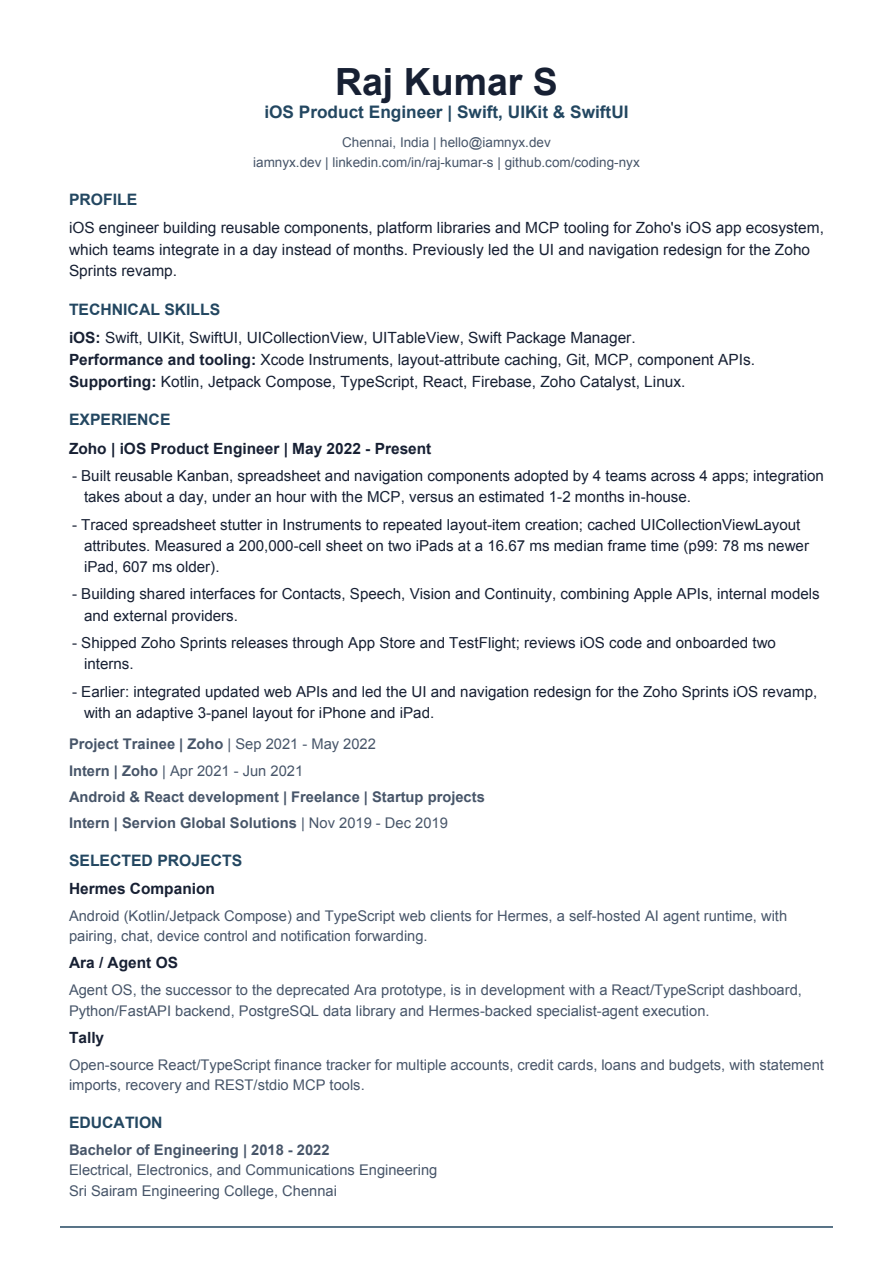
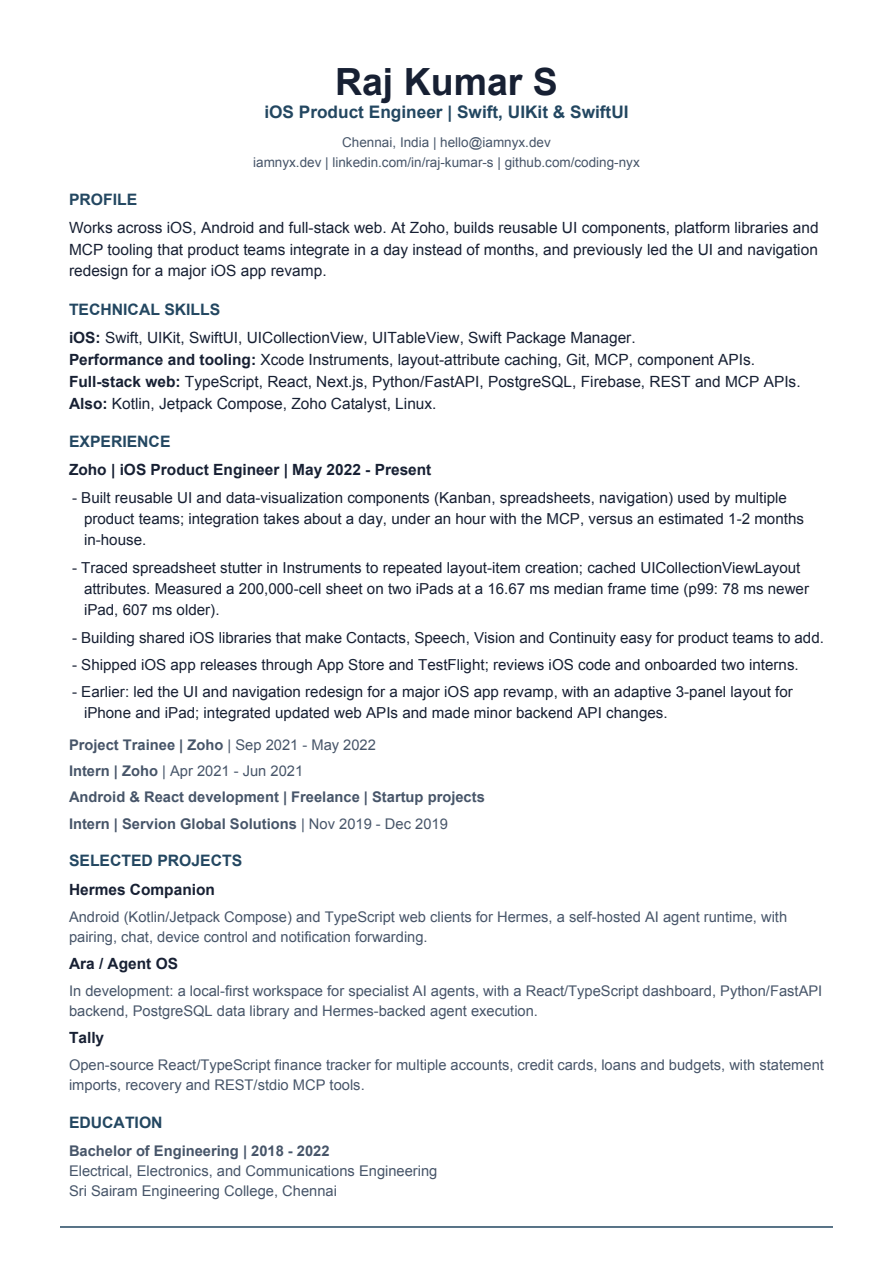
Update portfolio and résumé positioning

diff --git a/src/data/portfolio.js b/src/data/portfolio.js
@@ -143,7 +143,7 @@ export const experienceData = [
     dates: 'May 2022 - Present',
     type: 'Full-time',
     description:
-      'Builds reusable iOS components and platform libraries for Zoho’s app ecosystem, used by other product teams, reviews code for the iOS teams and onboarded two interns. Previously on Zoho Sprints and Zoho Projects, including leading UI and navigation for the Zoho Sprints revamp and shipping its App Store and TestFlight releases. Covers requirements analysis, feasibility, native UI performance and product-team integration.',
+      'Builds the reusable iOS components and platform libraries that Zoho’s product teams build on, from requirements analysis and feasibility through to helping teams integrate them. Before that, built features for Zoho’s iOS apps and led UI and navigation for a major app revamp.',
     uiWork: {
       title: 'UI layout and performance',
       summary: 'Worked on application navigation, component layouts and scrolling performance.',
@@ -153,7 +153,7 @@ export const experienceData = [
           title: 'Adaptive product navigation',
           contextLabel: 'Scope',
           context:
-            'App-wide UI redesign and navigation improvements as part of the Zoho Sprints iOS revamp.',
+            'App-wide UI redesign and navigation improvements as part of a major iOS app revamp.',
           analysisLabel: 'Adaptive layout',
           analysis:
             'Implemented a reusable three-panel split view for phone, landscape and iPad layouts. Switched between rail navigation and a tab bar based on available size and traitCollection.',
@@ -192,30 +192,30 @@ export const experienceData = [
       {
         id: 'reusable-product-ui',
         name: 'Reusable Product UI',
-        desc: 'Developed Kanban, spreadsheet and navigation components used by four teams across four apps. A component a team would otherwise spend an estimated one to two months designing, building and integrating can be integrated in about a day. Prototyped UIKit, SwiftUI and hybrid approaches using collection views, table views, List, lazy stacks and custom compositional layouts.',
+        desc: 'Developed reusable UI and data-visualization components, including Kanban boards, spreadsheets and navigation, used by multiple product teams. Teams integrate one in about a day, instead of an estimated one to two months building it themselves. Prototyped UIKit, SwiftUI and hybrid approaches using collection views, table views, List, lazy stacks and custom compositional layouts.',
         resumeSummary:
-          'Built reusable Kanban, spreadsheet and navigation components adopted by 4 teams across 4 apps; integration takes about a day, under an hour with the MCP, versus an estimated 1-2 months in-house.',
+          'Built reusable UI and data-visualization components (Kanban, spreadsheets, navigation) used by multiple product teams; integration takes about a day, under an hour with the MCP, versus an estimated 1-2 months in-house.',
       },
       {
         id: 'platform-library-integration',
         name: 'iOS Platform Libraries and Feature Integration',
-        desc: 'Developing reusable iOS libraries that give product teams consistent interfaces for Contacts, Speech, Vision and Continuity features. The work includes wrapping Apple frameworks and designing feature pipelines that combine native capabilities, Zoho R&D libraries, custom models and external libraries or APIs, with bring-your-own-key support where applicable.',
+        desc: 'Building iOS libraries that make features like Contacts, Speech, Vision and Continuity easy for product teams to add, through one consistent interface instead of each team integrating the Apple frameworks itself. The feature pipelines behind them combine native capabilities, Zoho R&D libraries, custom models and external libraries or APIs, with bring-your-own-key support where applicable.',
         resumeSummary:
-          'Building shared interfaces for Contacts, Speech, Vision and Continuity, combining Apple APIs, internal models and external providers.',
+          'Building shared iOS libraries that make Contacts, Speech, Vision and Continuity easy for product teams to add.',
       },
       {
         id: 'release-and-quality',
         name: 'Releases, code review and onboarding',
-        desc: 'Shipped Zoho Sprints releases through the App Store and TestFlight. Reviews code for the iOS teams and onboarded two interns.',
+        desc: 'Shipped iOS app releases through the App Store and TestFlight. Reviews code for the iOS teams and onboarded two interns.',
         resumeSummary:
-          'Shipped Zoho Sprints releases through App Store and TestFlight; reviews iOS code and onboarded two interns.',
+          'Shipped iOS app releases through App Store and TestFlight; reviews iOS code and onboarded two interns.',
       },
       {
         id: 'production-app-revamp',
-        name: 'Zoho Sprints Revamp',
-        desc: 'Integrated updated web APIs and translated their responses for the mobile app in the Zoho Sprints iOS revamp. Contributed to revamp planning and led UI redesign and navigation improvements. Also contributed to feature additions, bug fixes and minor releases across Zoho Sprints and Zoho Projects.',
+        name: 'iOS App Revamp',
+        desc: 'Contributed to revamp planning and led UI redesign and navigation improvements. Integrated updated web APIs and translated their responses for the mobile app. Also worked on feature additions, bug fixes, minor releases and minor backend API changes.',
         resumeSummary:
-          'Earlier: integrated updated web APIs and led the UI and navigation redesign for the Zoho Sprints iOS revamp, with an adaptive 3-panel layout for iPhone and iPad.',
+          'Earlier: led the UI and navigation redesign for a major iOS app revamp, with an adaptive 3-panel layout for iPhone and iPad; integrated updated web APIs and made minor backend API changes.',
       },
       {
         id: 'adaptive-navigation-layout',
@@ -329,24 +329,24 @@ export const profileData = {
     preferredName: 'Rajkumar',
     primaryStack: ['Swift', 'UIKit', 'SwiftUI', 'SPM'],
     paragraphs: [
-      'I’m an iOS product engineer in Chennai. At Zoho, I build reusable components and platform libraries for the iOS app ecosystem: Kanban, spreadsheet and navigation components that four teams use across four apps, and shared libraries for Contacts, Speech, Vision and Continuity.',
-      'A component that would take a team an estimated one to two months to build can be integrated in about a day, and in under an hour with the integration MCP I built. Before moving to components, I worked on Zoho Sprints and Zoho Projects, and led the UI and navigation redesign for the Zoho Sprints revamp, including an adaptive three-panel layout for phone, landscape and iPad.',
-      'Outside work, I build AI agent and automation tools: Android clients, a finance tracker with MCP tools, and a Linux distribution for an RK3588 board. I’m also into retro gaming and obstacle course races.',
+      'I’m an iOS engineer in Chennai. I care about the parts of an app people feel but rarely notice: a layout that adapts cleanly from iPhone to iPad, a spreadsheet that still scrolls smoothly at two hundred columns, a component another team can pick up in a day instead of rebuilding it.',
+      'These days most of my work is shared components and platform libraries that other teams build on. It’s a different kind of problem from shipping one app: you design for the developers using your code as much as for the person tapping the screen.',
+      'I love building for iOS, and I love full-stack web work just as much: designing the API, the database and the interface that sits on top of them. Most of my side projects start there, like a finance tracker for my own accounts and budgets. Some end up somewhere stranger, like an Android engine for AI agents or a Linux distribution for a board nobody supported. Away from the keyboard, I’m probably playing something retro or covered in mud at an obstacle course race.',
     ],
     personalLinkLabel: 'Race photos and other interests',
   },
   heroSummary:
-    'I build reusable iOS components and platform libraries for Zoho’s app ecosystem, which teams integrate in a day instead of months.',
+    'I build iOS and Android apps, full-stack web apps and the reusable components other developers build on.',
   deliverySummary:
-    'Early in the iOS role at Zoho, contributed to feature additions, bug fixes and minor releases for Zoho Sprints and Zoho Projects. For the Zoho Sprints revamp, integrated updated web APIs and translated their responses for the mobile app, contributed to revamp planning, and led UI redesign and navigation improvements.',
+    'Early in the iOS role at Zoho, contributed to feature additions, bug fixes and minor releases for Zoho’s iOS apps. For a major app revamp, integrated updated web APIs and translated their responses for the mobile app, contributed to revamp planning, and led UI redesign and navigation improvements.',
   headline:
     'iOS Product Engineer at Zoho | Reusable Components & Platform Libraries | Swift, UIKit & SwiftUI',
   location: 'Chennai, India',
   profileImage: '/profile.jpg',
   summary:
-    'iOS engineer at Zoho since May 2022, now building reusable Kanban, spreadsheet and navigation components, platform libraries and component integration tooling for Zoho’s iOS app ecosystem. Earlier, on Zoho Sprints and Zoho Projects, integrated updated web APIs and translated their responses for the mobile app in the Zoho Sprints revamp, contributed to planning, and led UI redesign and navigation improvements.',
+    'iOS engineer at Zoho since May 2022, now building reusable UI and data-visualization components, platform libraries and component integration tooling for Zoho’s iOS app ecosystem. Earlier, integrated updated web APIs and translated their responses for the mobile app in a major app revamp, made minor backend API changes, contributed to planning, and led UI redesign and navigation improvements.',
   resumeSummary:
-    'iOS engineer building reusable components, platform libraries and MCP tooling for Zoho’s iOS app ecosystem, which teams integrate in a day instead of months. Previously led the UI and navigation redesign for the Zoho Sprints revamp.',
+    'Works across iOS, Android and full-stack web. At Zoho, builds reusable UI components, platform libraries and MCP tooling that product teams integrate in a day instead of months, and previously led the UI and navigation redesign for a major iOS app revamp.',
   socialLinks: {
     linkedin: 'https://www.linkedin.com/in/raj-kumar-s',
     email: 'hello@iamnyx.dev',
@@ -517,7 +517,7 @@ export const projects = [
     description:
       'Ara is deprecated and is being rebuilt as Agent OS. The successor is in development, bringing specialist agents, persistent personal data and coordinated workflows into a local-first workspace built on a pinned Hermes runtime.',
     resumeSummary:
-      'Agent OS, the successor to the deprecated Ara prototype, is in development with a React/TypeScript dashboard, Python/FastAPI backend, PostgreSQL data library and Hermes-backed specialist-agent execution.',
+      'In development: a local-first workspace for specialist AI agents, with a React/TypeScript dashboard, Python/FastAPI backend, PostgreSQL data library and Hermes-backed agent execution.',
     architecture: {
       title: 'Agent OS architecture',
       note: 'Successor in development; the earlier Ara prototype is deprecated.',
@@ -603,7 +603,7 @@ export const skillsData = [
     name: 'Swift',
     category: 'Mobile',
     evidence:
-      'Developed reusable Kanban, spreadsheet and navigation components for Zoho iOS apps, from requirements analysis to product-team integration support.',
+      'Developed reusable UI and data-visualization components, including Kanban boards, spreadsheets and navigation, for Zoho iOS apps, from requirements analysis to product-team integration support.',
   },
   {
     id: 'uikit',

diff --git a/tests/portfolio.regression.test.js b/tests/portfolio.regression.test.js
@@ -276,7 +276,7 @@ test('hero exposes recruiter actions with unambiguous labels', () => {
   const hero = read('src/features/profile/HeroSection.jsx');
   assert.match(
     hero,
-    /href="#experience"[^>]*>\s*View iOS work\s*</,
+    /href="#experience"[^>]*>\s*View my work\s*</,
     'native work needs a direct hiring path',
   );
   assert.match(
@@ -475,6 +475,20 @@ test('architecture lint rejects reversed layers, sibling features and unresolved
       result.messages.some((message) => message.ruleId === 'architecture/module-boundaries'),
       `${filePath} must reject ${dependency}`,
     );
+  }
+});
+
+test('earlier Zoho apps stay unnamed in public content and Rook guidance', async () => {
+  const data = JSON.stringify(await importData());
+  const rook = read('server', 'rook', 'context.mjs');
+  for (const name of [
+    /Zoho Sprints/,
+    /Zoho Projects/,
+    /\bSprints\b/,
+    /\btwo (?:Zoho )?(?:iOS )?apps\b/i,
+  ]) {
+    assert.doesNotMatch(data, name);
+    assert.doesNotMatch(rook, name);
   }
 });
 

diff --git a/src/features/profile/ResumeSection.jsx b/src/features/profile/ResumeSection.jsx
@@ -14,7 +14,7 @@ export default function ResumeSection({ resumeUrl }) {
       </h2>
       <div className="resume-grid">
         <div className="resume-overview">
-          <p className="port-eyebrow">Native UI · Product engineering</p>
+          <p className="port-eyebrow">Mobile · Web · Product engineering</p>
           <h3>{role.role}</h3>
           <p>{profileData.resumeSummary}</p>
           <p className="port-meta">{role.company} · Since May 2022</p>

diff --git a/src/features/profile/HeroSection.jsx b/src/features/profile/HeroSection.jsx
@@ -79,7 +79,7 @@ const HeroSection = ({ resumeUrl }) => {
           <p className="line muted">{profileData.heroSummary}</p>
           <div className="acts">
             <SpringAction as="a" className="btn primary" href="#experience" data-sec="experience">
-              View iOS work
+              View my work
             </SpringAction>
             <SpringAction as="a" className="btn ghost" href={resumeUrl} download>
               Resume ↓

diff --git a/src/features/projects/projects.css b/src/features/projects/projects.css
@@ -318,11 +318,11 @@
 .pc-image img[data-image-layout='portrait'],
 .project-screenshot img[data-image-layout='portrait'] {
   object-fit: cover;
-  object-position: center 33%;
+  object-position: center top;
 }
 .project-screenshot img[data-image-layout='portrait'] {
   aspect-ratio: 16 / 9;
-  object-position: center 37%;
+  object-position: center top;
 }
 .project-image-caption {
   font-size: 12px;

diff --git a/scripts/build-resume.py b/scripts/build-resume.py
@@ -69,7 +69,7 @@ def build():
     section("Profile")
     story.append(para(text(profile.get("resumeSummary", profile["summary"]))))
     section("Technical skills")
-    story.append(para("<b>iOS:</b> Swift, UIKit, SwiftUI, UICollectionView, UITableView, Swift Package Manager.<br/><b>Performance and tooling:</b> Xcode Instruments, layout-attribute caching, Git, MCP, component APIs.<br/><b>Supporting:</b> Kotlin, Jetpack Compose, TypeScript, React, Firebase, Zoho Catalyst, Linux."))
+    story.append(para("<b>iOS:</b> Swift, UIKit, SwiftUI, UICollectionView, UITableView, Swift Package Manager.<br/><b>Performance and tooling:</b> Xcode Instruments, layout-attribute caching, Git, MCP, component APIs.<br/><b>Full-stack web:</b> TypeScript, React, Next.js, Python/FastAPI, PostgreSQL, Firebase, REST and MCP APIs.<br/><b>Also:</b> Kotlin, Jetpack Compose, Zoho Catalyst, Linux."))
     section("Experience")
     story.append(para(text(role["company"]) + " | " + text(role["role"]) + " | " + text(role["dates"]), "job"))
     work_by_id = {item["id"]: item for item in role["projects"] if "resumeSummary" in item}
